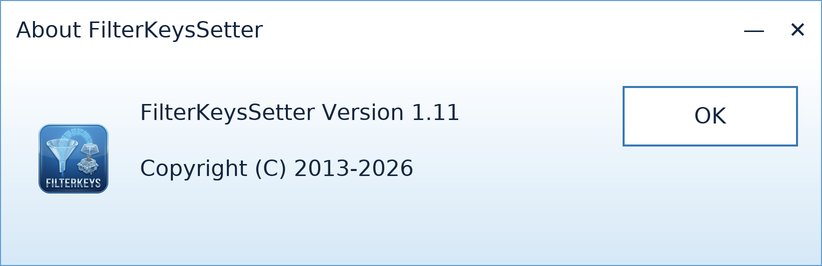
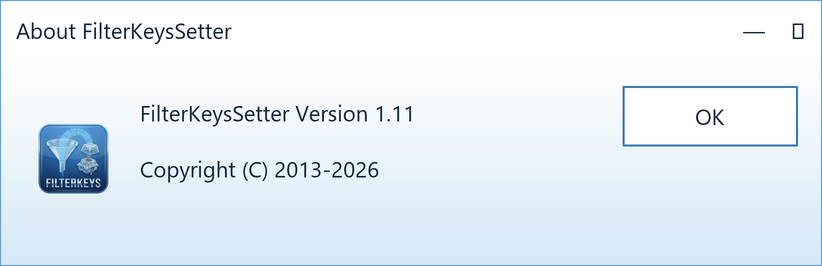
Draw the generated pictures with the font the dialog uses

diff --git a/tools/render-palette.py b/tools/render-palette.py
@@ -25,9 +25,33 @@ from PIL import Image, ImageDraw, ImageFont
 HERE = os.path.dirname(os.path.abspath(__file__))
 ROOT = os.path.dirname(HERE)
 
-FONT_PATH = "/usr/share/fonts/truetype/dejavu/DejaVuSans.ttf"
-FONT_BOLD = "/usr/share/fonts/truetype/dejavu/DejaVuSans-Bold.ttf"
-FONT_MONO = "/usr/share/fonts/truetype/dejavu/DejaVuSansMono.ttf"
+# Windows first -- Segoe UI is the face the dialog itself asks for -- with the
+# DejaVu paths of the Linux box this was written on as the fallback, so the
+# sheet can be drawn on either. Neither is a reason to draw it in some other
+# face without saying so.
+WINDOWS_FONTS = os.path.join(os.environ.get("WINDIR", r"C:\Windows"), "Fonts")
+DEJAVU = "/usr/share/fonts/truetype/dejavu"
+FONTS = {
+    "regular": (os.path.join(WINDOWS_FONTS, "segoeui.ttf"),
+                os.path.join(DEJAVU, "DejaVuSans.ttf")),
+    "bold": (os.path.join(WINDOWS_FONTS, "segoeuib.ttf"),
+             os.path.join(DEJAVU, "DejaVuSans-Bold.ttf")),
+    "mono": (os.path.join(WINDOWS_FONTS, "consola.ttf"),
+             os.path.join(DEJAVU, "DejaVuSansMono.ttf")),
+}
+
+
+def font_path(kind):
+    for candidate in FONTS[kind]:
+        if os.path.exists(candidate):
+            return candidate
+    raise SystemExit("no %s font found; looked at %s"
+                     % (kind, ", ".join(FONTS[kind])))
+
+
+FONT_PATH = font_path("regular")
+FONT_BOLD = font_path("bold")
+FONT_MONO = font_path("mono")
 
 SCALE = 2
 

diff --git a/tools/render-dialog.py b/tools/render-dialog.py
@@ -36,8 +36,31 @@ DLU_Y = 1.875
 SCALE = 2        # output pixels per 96 dpi pixel
 SS = 2           # extra supersampling, removed again when the image is resized
 
-FONT_PATH = "/usr/share/fonts/truetype/dejavu/DejaVuSans.ttf"
-FONT_BOLD = "/usr/share/fonts/truetype/dejavu/DejaVuSans-Bold.ttf"
+# The dialog asks Windows for Segoe UI, and the DLU sizes above are that face's
+# metrics, so the picture has to be drawn in it. The DejaVu paths are what a
+# Linux box has, which is where this script was written; the first candidate
+# that exists wins, and a machine with neither is told rather than quietly
+# drawing the dialog in some other face.
+WINDOWS_FONTS = os.path.join(os.environ.get("WINDIR", r"C:\Windows"), "Fonts")
+DEJAVU = "/usr/share/fonts/truetype/dejavu"
+FONTS = {
+    "regular": (os.path.join(WINDOWS_FONTS, "segoeui.ttf"),
+                os.path.join(DEJAVU, "DejaVuSans.ttf")),
+    "bold": (os.path.join(WINDOWS_FONTS, "segoeuib.ttf"),
+             os.path.join(DEJAVU, "DejaVuSans-Bold.ttf")),
+}
+
+
+def font_path(kind):
+    for candidate in FONTS[kind]:
+        if os.path.exists(candidate):
+            return candidate
+    raise SystemExit("no %s font found; looked at %s"
+                     % (kind, ", ".join(FONTS[kind])))
+
+
+FONT_PATH = font_path("regular")
+FONT_BOLD = font_path("bold")
 
 TITLE_H_DLU = 16
 
